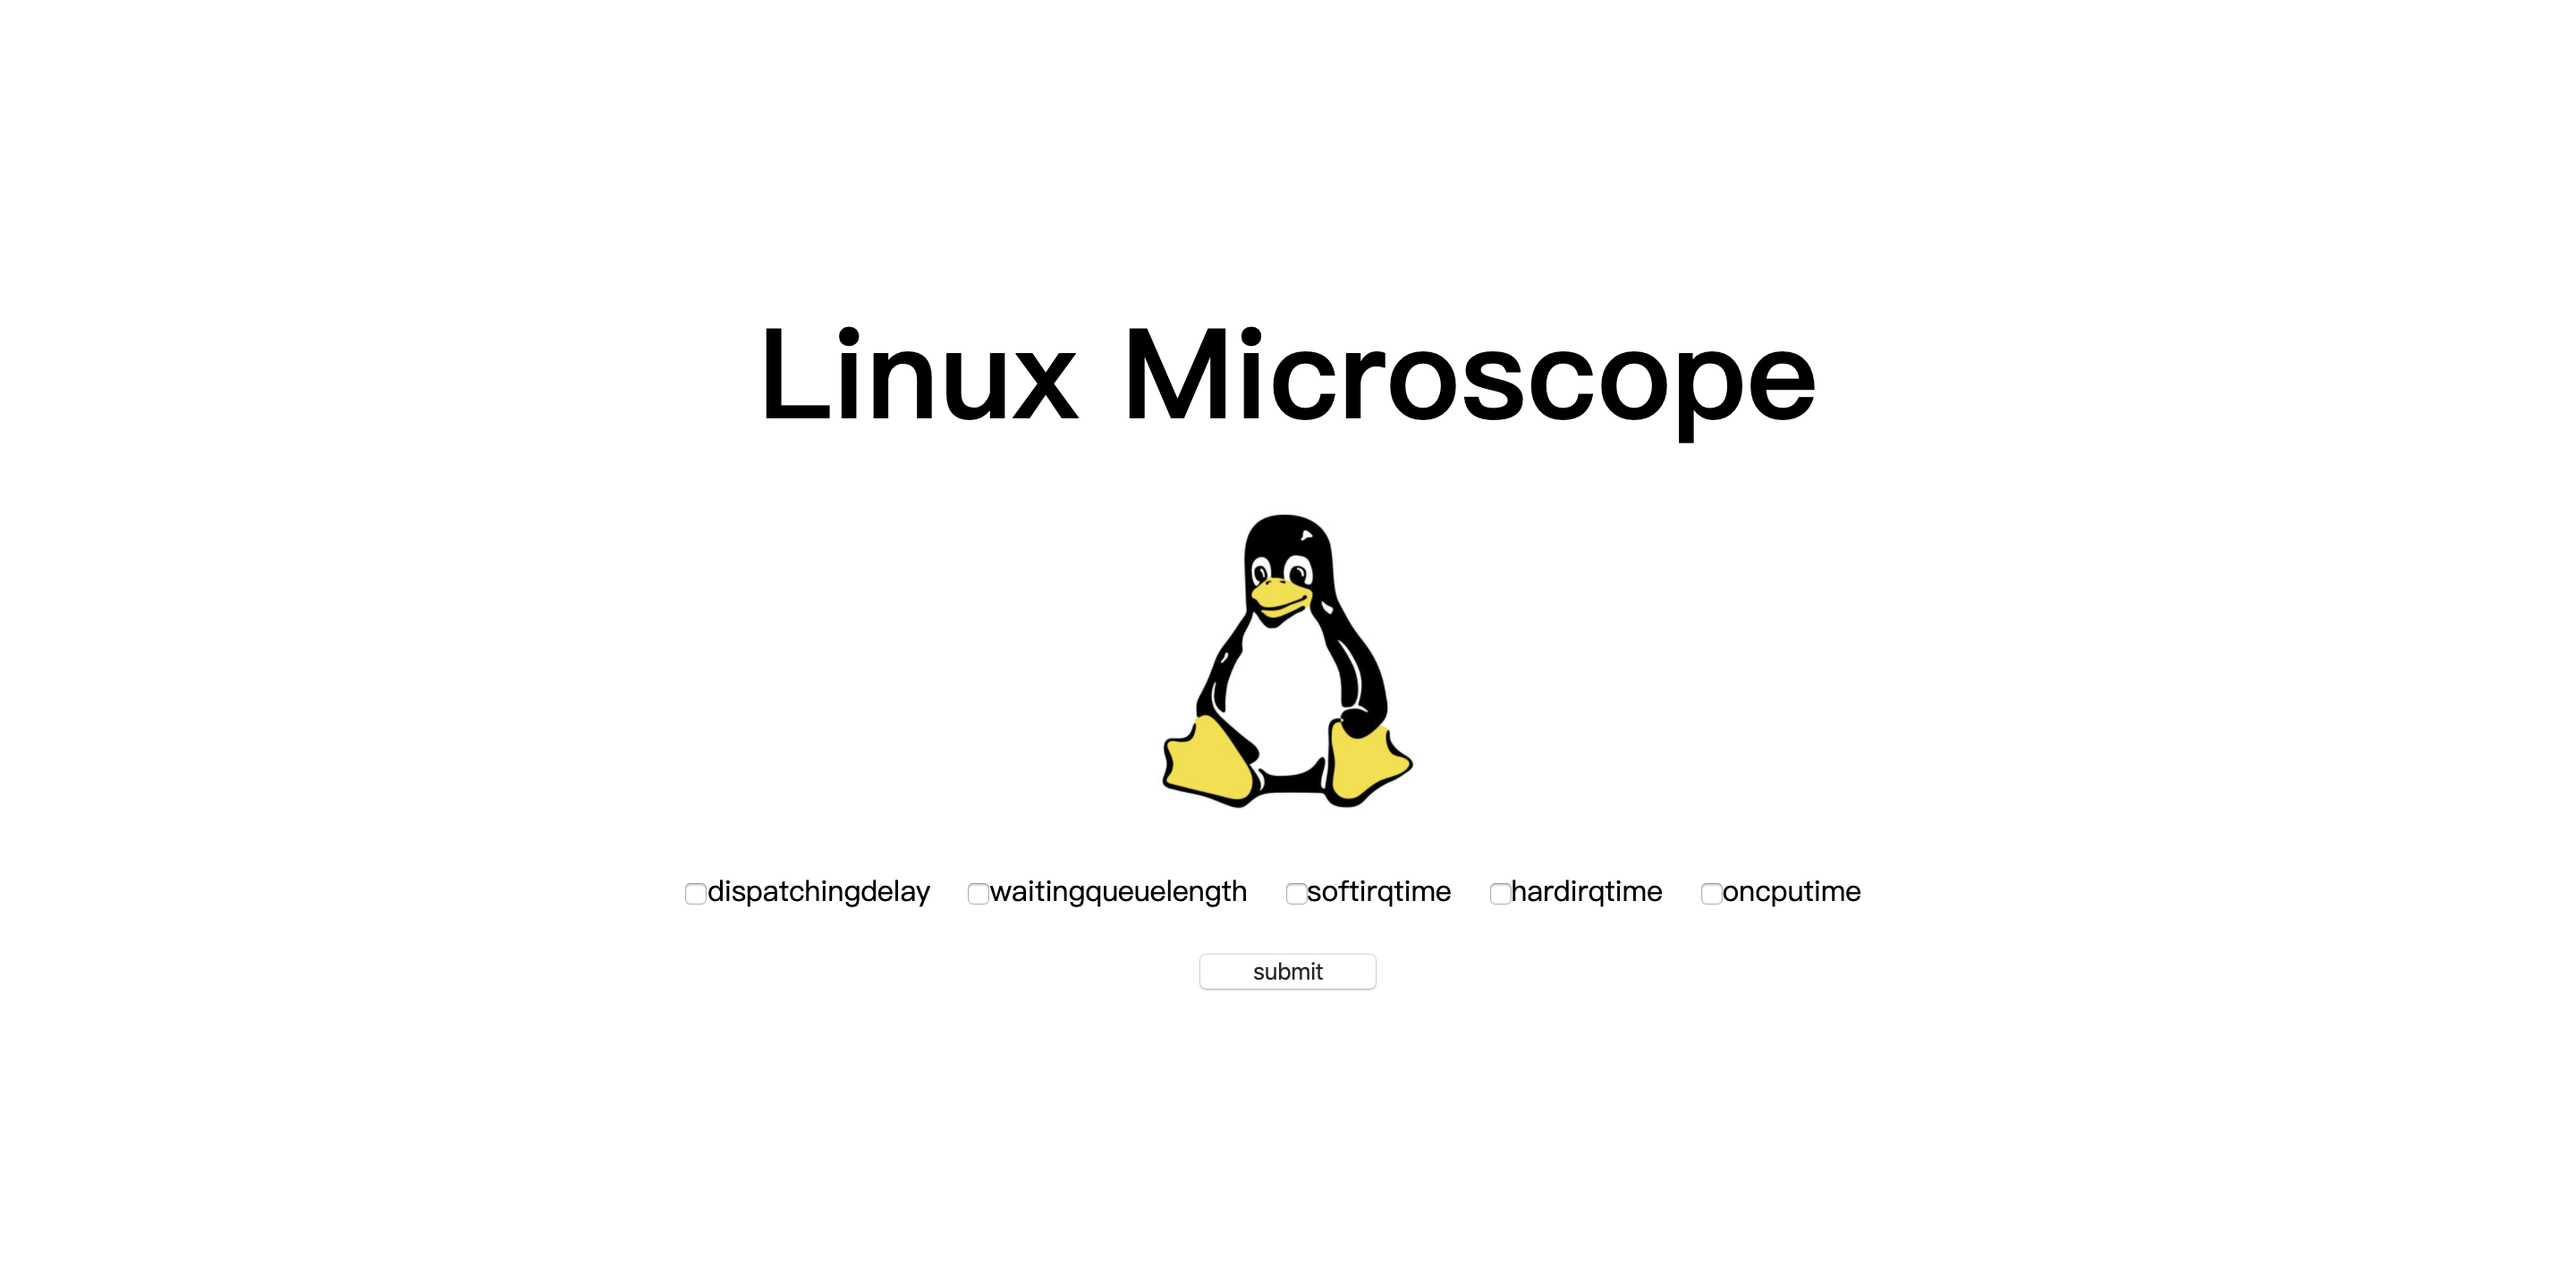
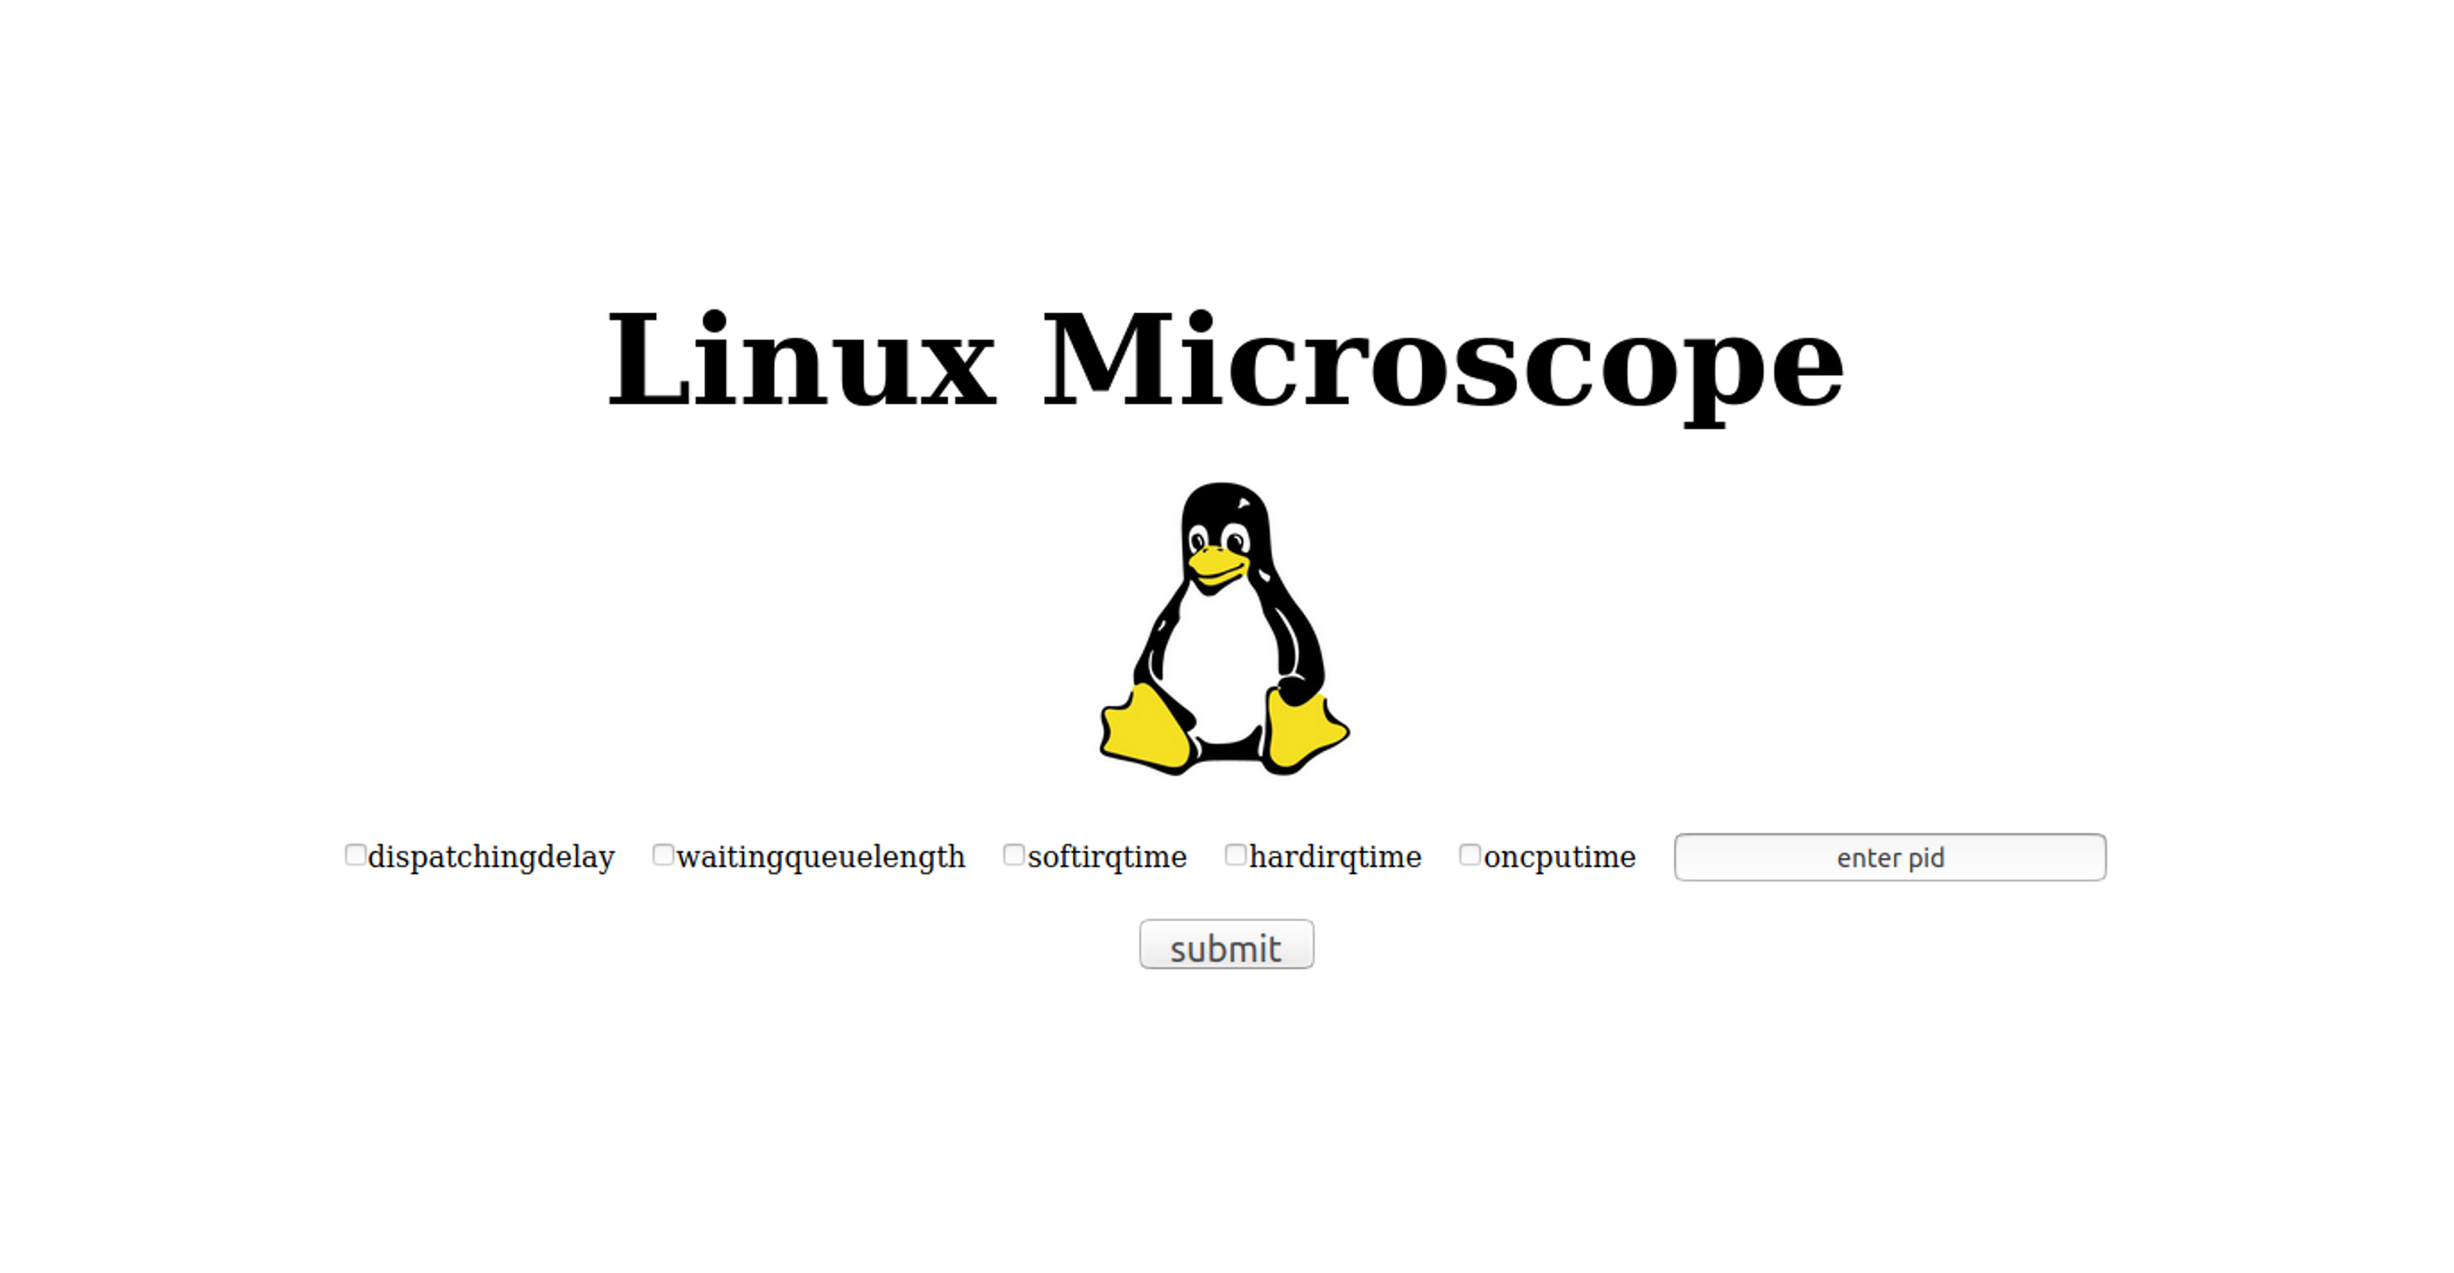
Add functionality: input pid

Changed region(s): [[0.1239, 0.3708, 0.7434, 0.7725], [0.2478, 0.2472, 0.7744, 0.3399], [0.7434, 0.6489, 0.8054, 0.6798]]

diff --git a/static/index.html b/static/index.html
@@ -22,7 +22,7 @@
             width: 100px;
             cursor: pointer;
             height: 30px;
-            font-size: 40px;
+            font-size: 20px;
         }
         #inner{
 
@@ -43,6 +43,8 @@
                 <input type="checkbox" name="softirqtime" value="true">softirqtime&nbsp;&nbsp;&nbsp;
                 <input type="checkbox" name="hardirqtime" value="true">hardirqtime&nbsp;&nbsp;&nbsp;
                 <input type="checkbox" name="oncputime" value="true">oncputime&nbsp;&nbsp;&nbsp;
+                <label for="other"></label>
+                <input type="text" name="pid" value="enter pid">
                 <br>
                 <br>
                 <input id="sub" type="submit" value="submit">

diff --git a/api/handle.go b/api/handle.go
@@ -9,6 +9,7 @@ import (
 	"fmt"
 	"os/exec"
 	"github.com/cihub/seelog"
+	"strconv"
 )
 
 func init() {
@@ -22,14 +23,18 @@ func init() {
 
 func do_collect(c *Context)  {
 	//data := sys.Data{}
-	//m := fillConfigMessage(c)
+	m := fillConfigMessage(c)
 	//TODO..
 
-	//fmt.Println(m)
+	fmt.Println(m)
 	//data.Handle(&m)
+	pid,err:= strconv.Atoi(m.Pid)
+	if err != nil {
+		seelog.Error("pid error")
+	}
 
 	// For static bpf files
-	go execute()
+	go execute(pid)
 	fmt.Println("start extracting data...")
 	seelog.Info("start extracting data...")
 
@@ -44,9 +49,12 @@ func Ping(c *Context) {
 }
 
 
-func execute() {
+func execute(pid int) {
 	collector := path.Join(config.DefaultCollectorPath, "collect.py")
-	cmd := exec.Command("python", collector)
+	arg1 := "-P"
+	arg2 := strconv.Itoa(pid)
+	//fmt.Println(collector)
+	cmd := exec.Command("python", collector, arg1, arg2)
 	stdout, err := cmd.StdoutPipe();
 	if err != nil {
 		seelog.Error(err)
@@ -115,6 +123,11 @@ func fillConfigMessage(c *Context) model.ConfigMessage {
 		m.OnCpuTime = true
 	} else {
 		m.OnCpuTime = false
+	}
+	if pid, ok := c.GetPostForm("pid"); ok {
+		m.Pid = pid
+	} else {
+		m.Pid = "-1"
 	}
 	return m
 }

diff --git a/pkg/model/message.go b/pkg/model/message.go
@@ -7,4 +7,5 @@ type ConfigMessage struct {
 	SoftIrqTime        bool `json:"softirqtime"`
 	HardIrqTime        bool `json:"hardirqtime"`
 	OnCpuTime          bool `json:"oncputime"`
+	Pid				   string `json:"pid"`
 }
